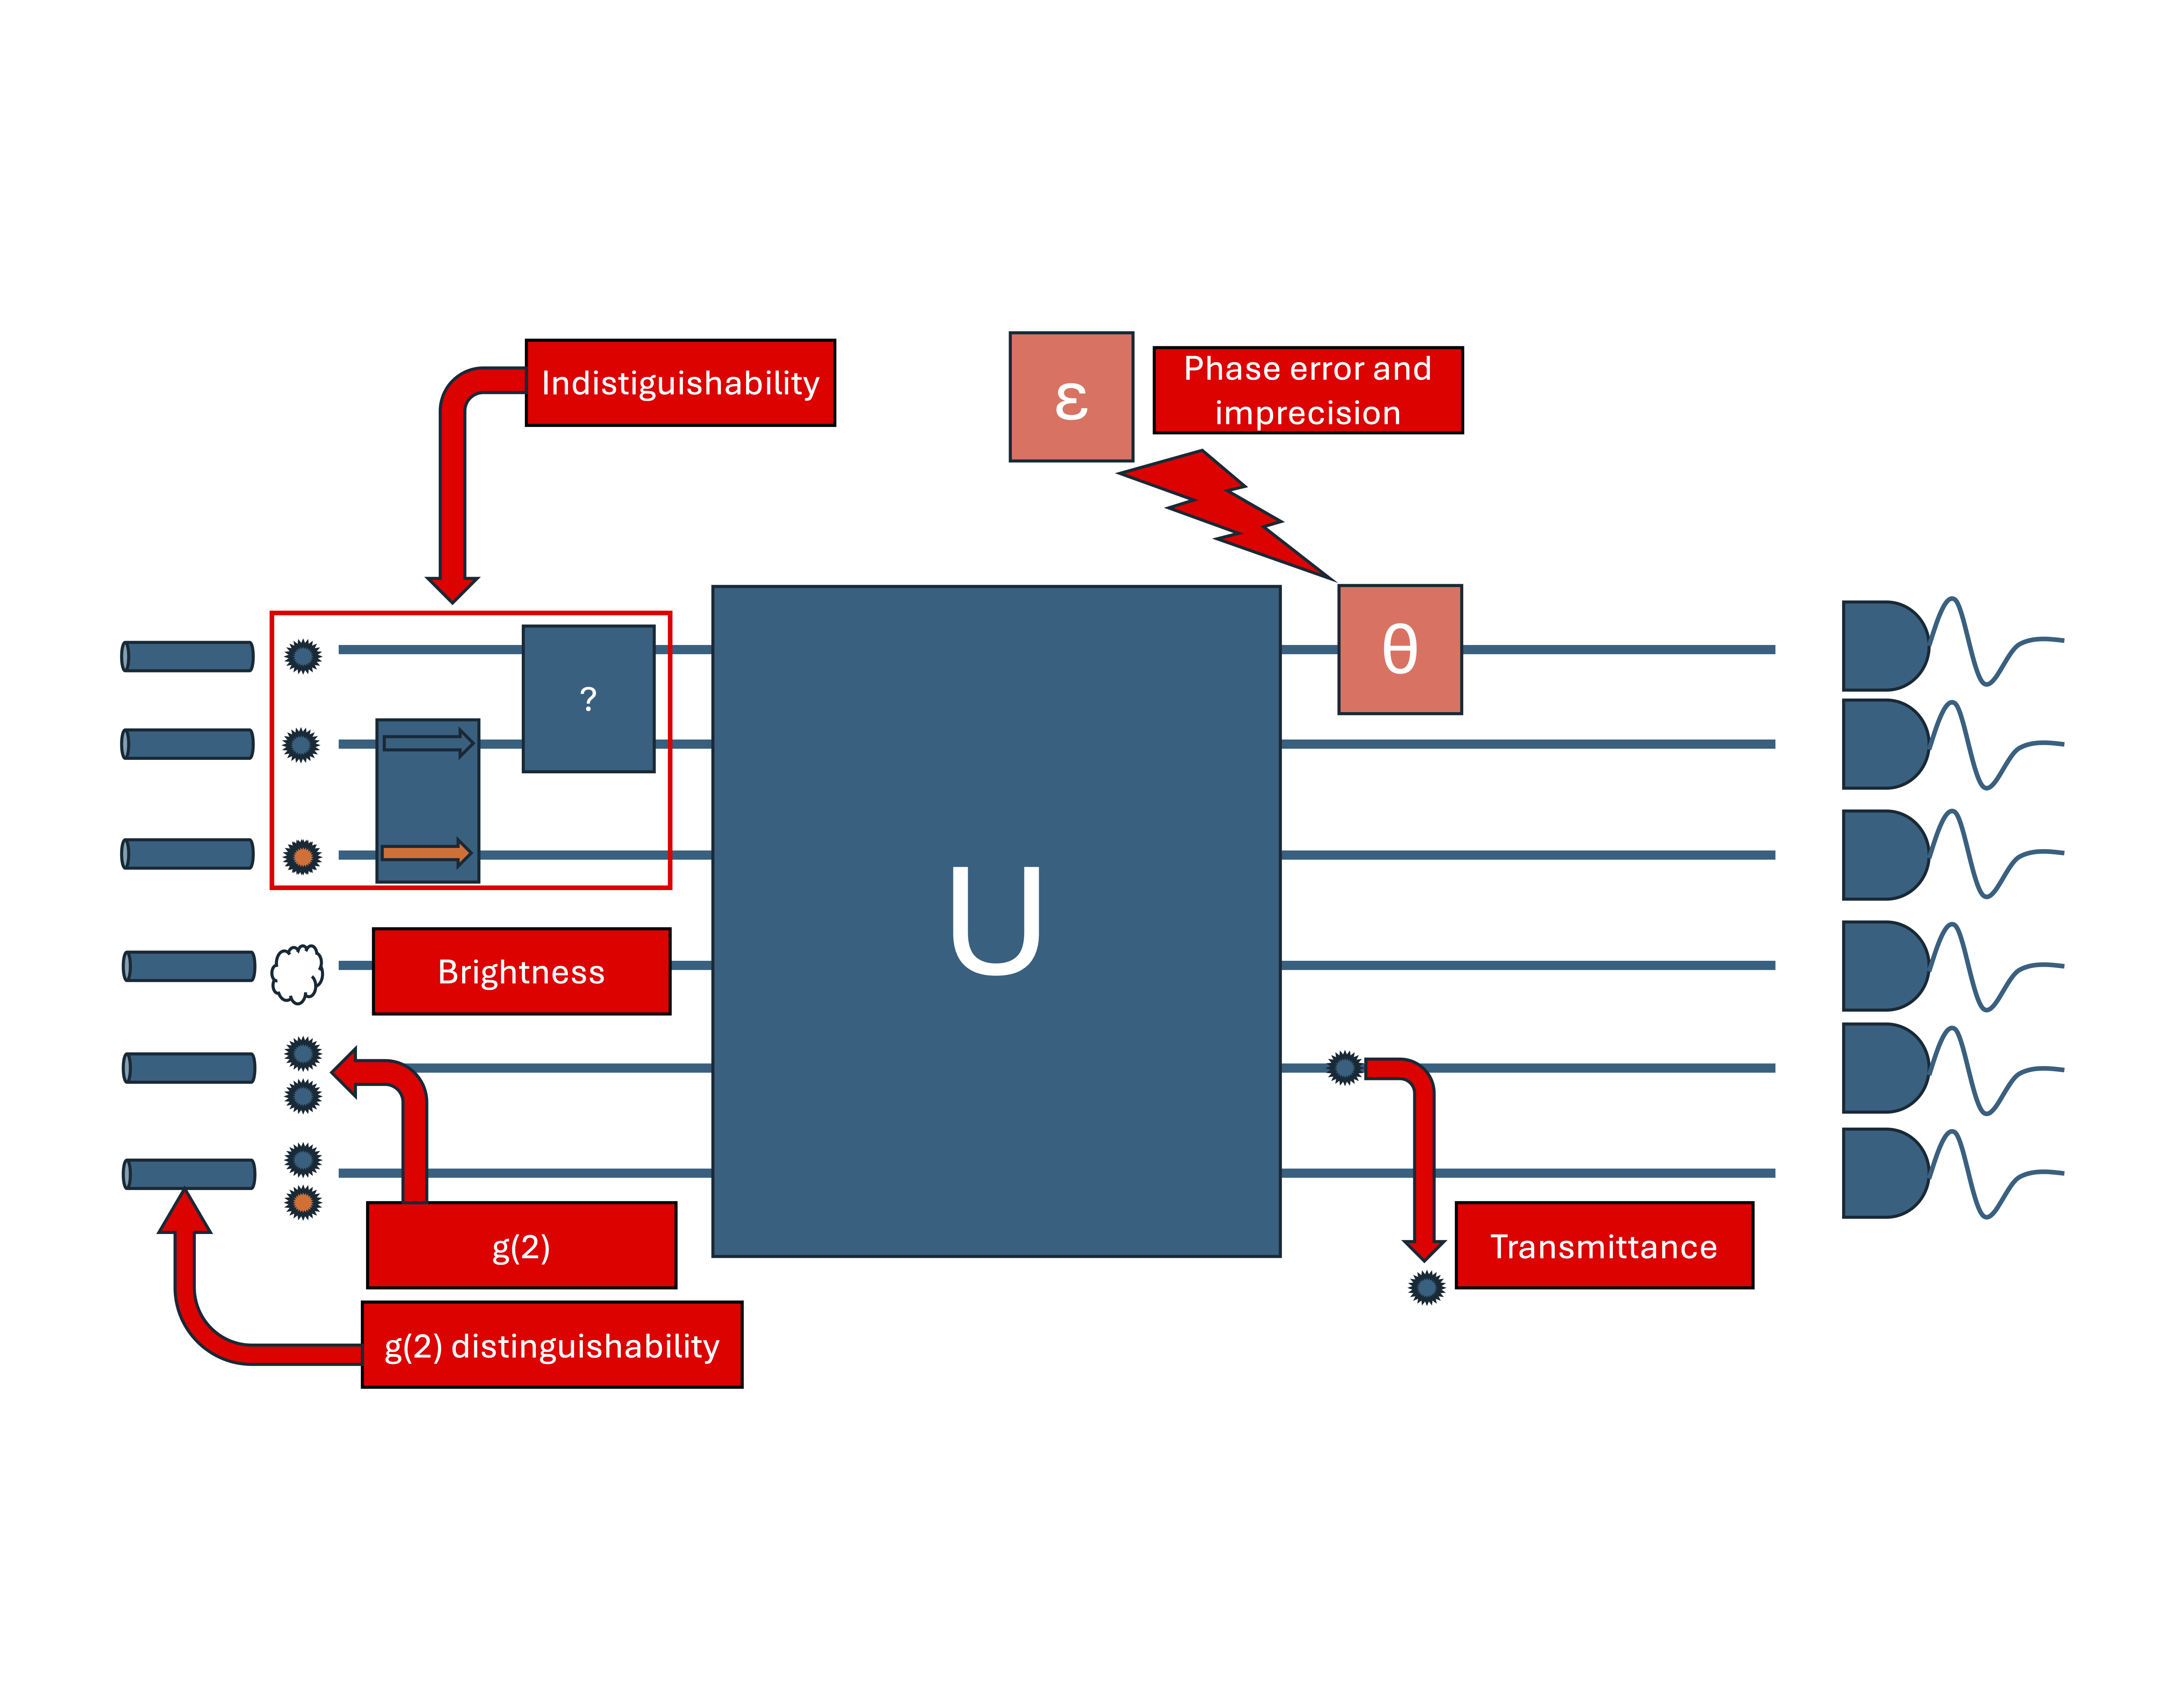
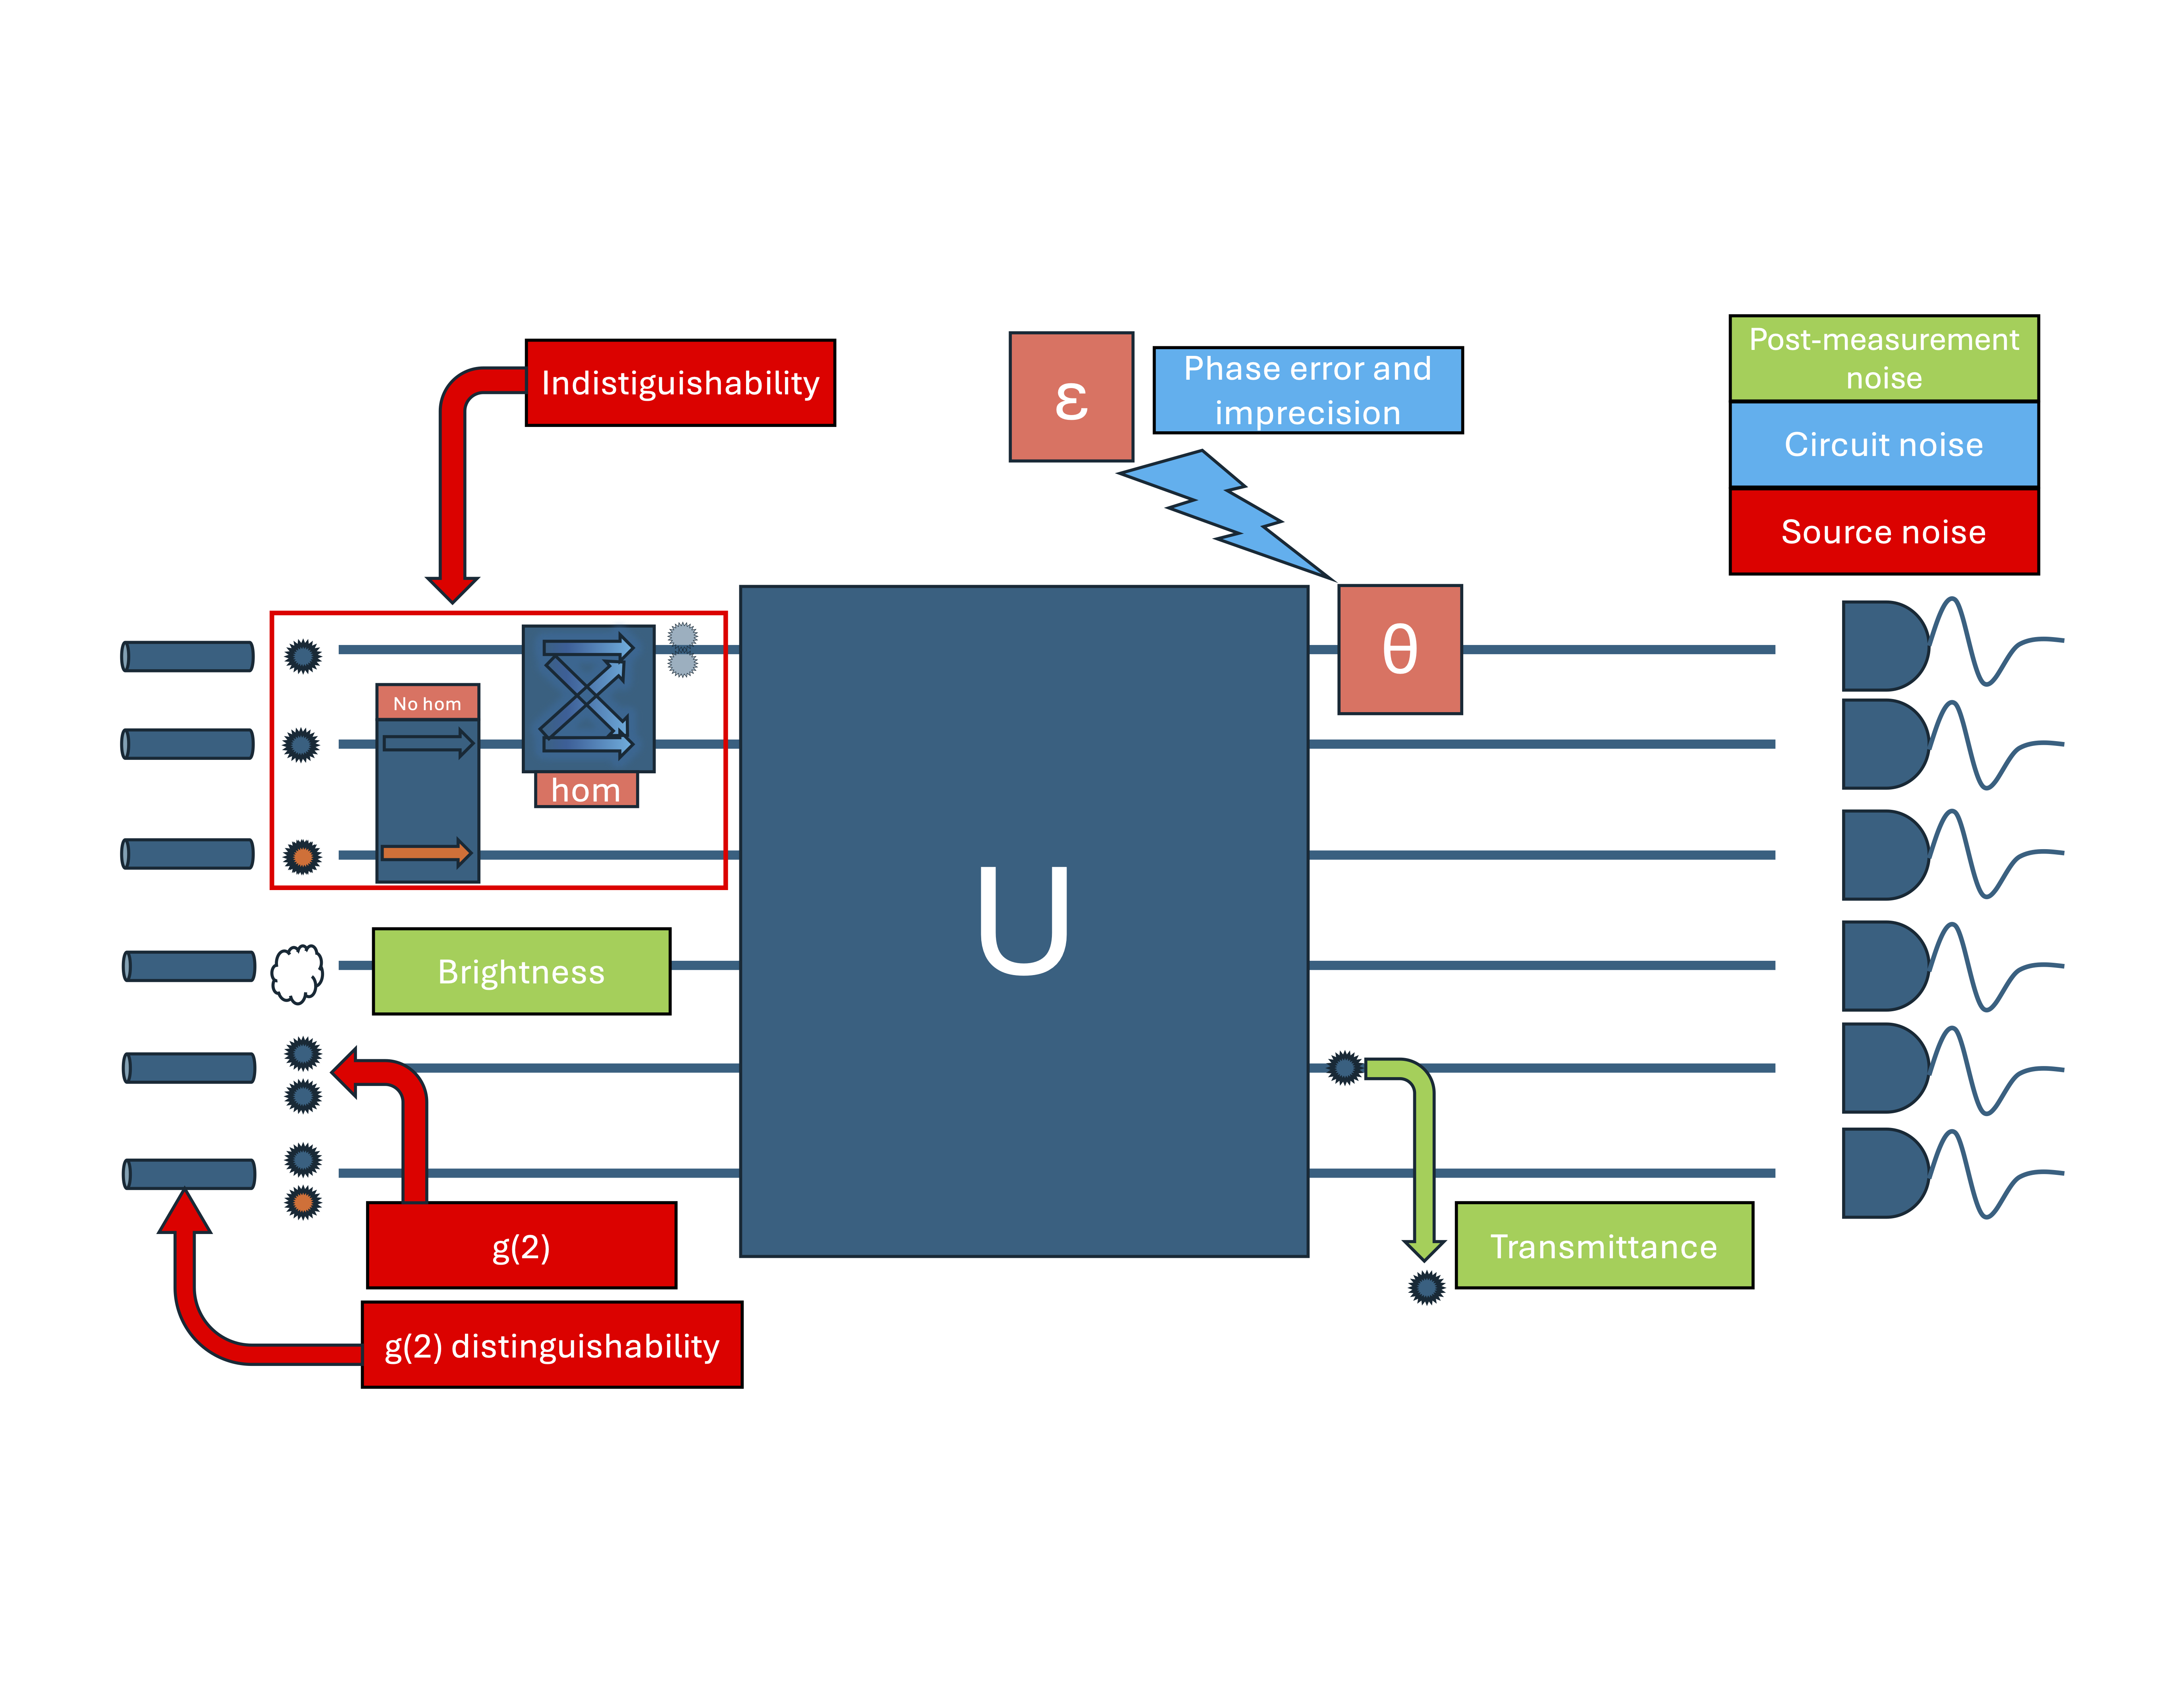
First round of reviews missing the code snippet

diff --git a/docs/source/user_guide/noisy_simulations.rst b/docs/source/user_guide/noisy_simulations.rst
@@ -5,11 +5,11 @@ Noisy simulations with SLOS
 Introduction
 =============
 
-Current quantum architectures are in the NISQ (noisy intermediate-scale quantum) regime, which makes the computation noisy. That means your current MerLin simulations, which are theoretically correct, will not give the same results as a run on current photonic devices.
+Current quantum architectures, as the ones Quandela offer on the cloud (Ascella and Belenos), are in the NISQ (noisy intermediate-scale quantum) regime, which makes the computation noisy. That means your current MerLin simulations, which are theoretically correct, will not give the same results as a run on current photonic devices. Because runs will be noisy on the QPU when your simulation was not, the actual unitary computed on the quantum device is not the one expected by your model that expects a perfect simulation.
 
-This can create a problem because models trained on a simulator will not perform well on hardware when the output is modified. The solution is to use tunable noisy simulations to train your models locally so they perform well on hardware.
+This can create a problem because models trained on a simulator will not perform well on hardware when the output is modified. The solution is to use tunable noisy simulations model/replicate that noise so your models are trained on a simulator closer to the actual hardware's performances.
 
-Since MerLin 0.4, noise has been added to the SLOS background to allow this type of training to better match hardware.
+Since MerLin 0.4, realistic noise has been added to the SLOS background to allow more realistic training and close the gap between simulation and hardware.
 
 
 Add Noise to the SLOS Simulation
@@ -260,6 +260,16 @@ Noisy Simulations Guidelines
 
 For noisy simulations, there are a couple of rules that need to be followed:
 
-1. All noisy simulations must be run with the probabilities measurement strategy.
+1. All noisy simulations must be run with the probabilities measurement strategy to reflect what is the actual output on the quantum device.
 2. Noisy simulations cannot use ``return_object=True``.
 3. Noisy simulations with source noise must be run in the Fock computation space. If a different space is chosen, it will be changed automatically with a warning.
+
+
+Noise Detectors to restrict the Fock Space
+===========================================
+
+As mentioned in the previous section, noisy simulations only support the Fock computation space as g2 errors may create bunched input states in this computation space. However, current detectors on the hardware are not not photon resolving. That means that the output space explored by the quantum computer is smaller than the full complete Fock basis. 
+
+In order to simulate the quantum process as closely as possible to the quantum hardware, we can impose these limitations on the photon detcetors using :class:`pcvl.Detector` objects in a :class:`pcvl.Experiment`. Here is a quick example on how to use them.
+
+TODO Will be completed in next commit